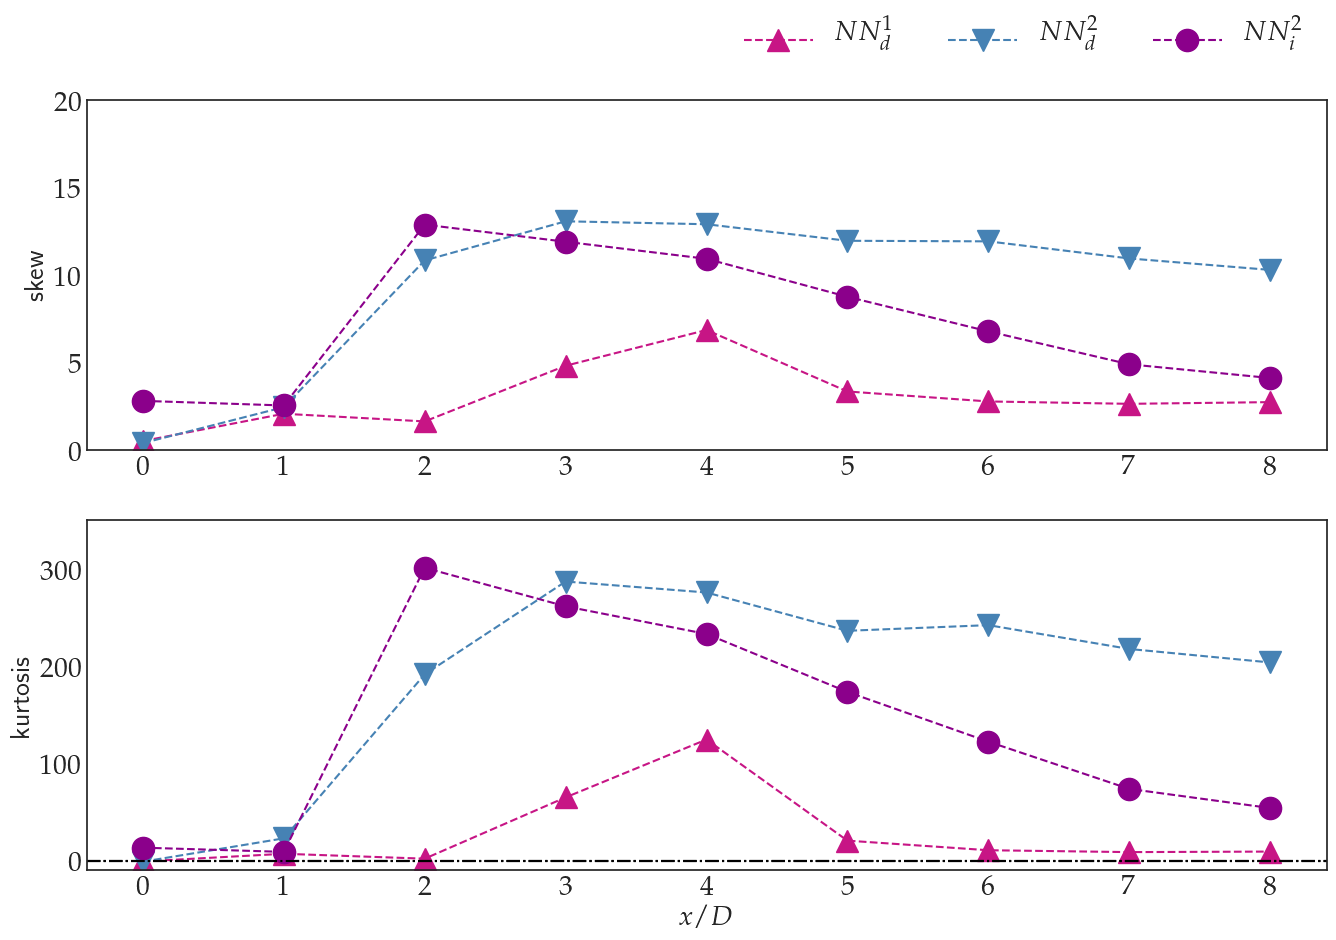
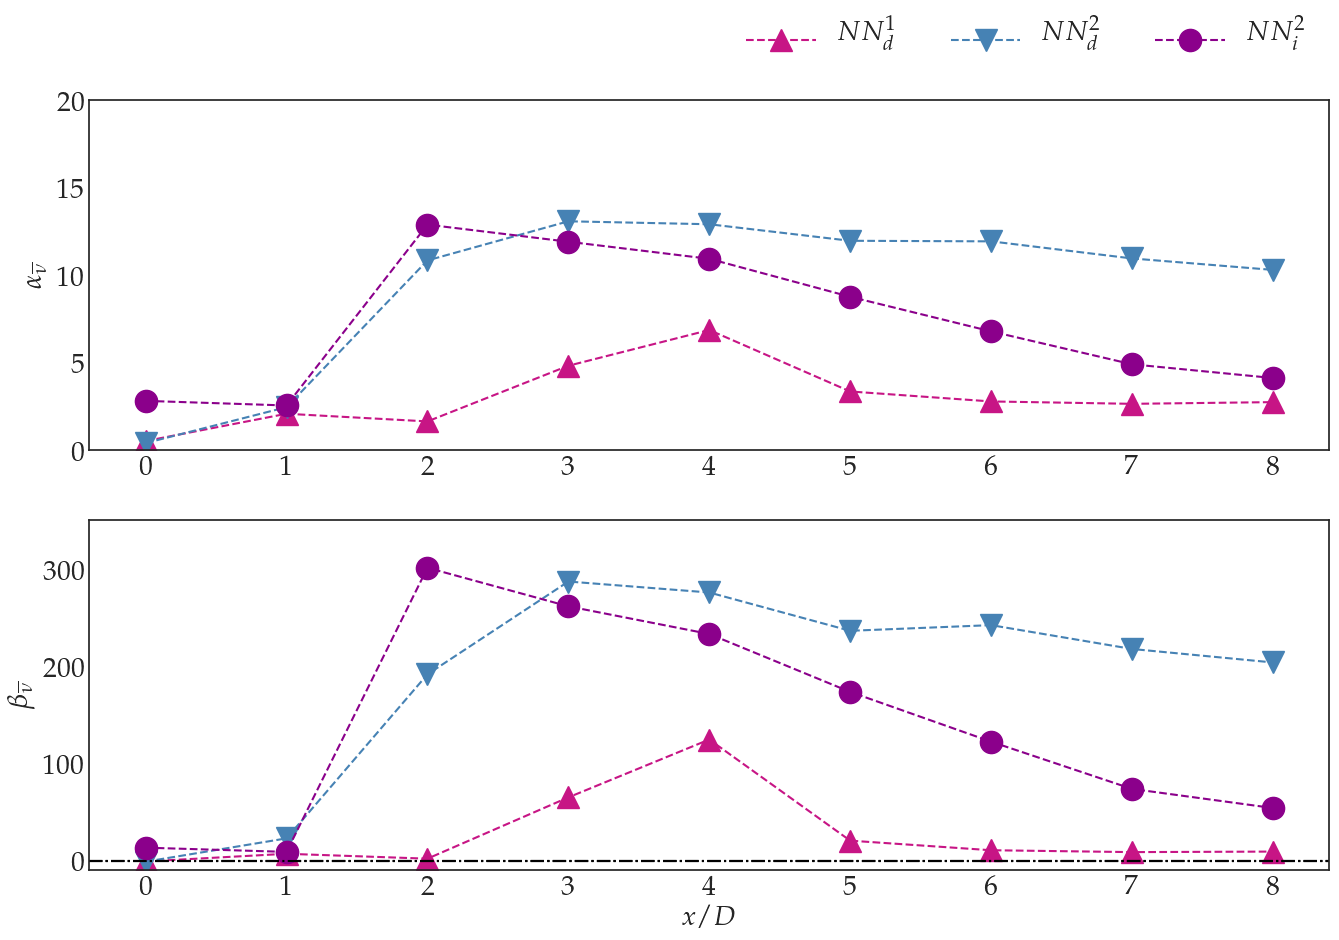
fix label ; font seems not to work, global variable seems to be unmutable after 1st assignement

diff --git a/userHistogram/userHistogram.py b/userHistogram/userHistogram.py
@@ -288,12 +288,12 @@ def main():
         ax[0].plot(axis_x, higherOrderStat[case]['skew'],label='skew',marker=markerDict[case],markersize=16,linestyle='--',color=colorDict[case])
         #ax[0].legend()
         ax[0].set_ylim(0,20)
-        ax[0].set_ylabel("skew")
+        ax[0].set_ylabel(r"$\alpha_{\overline{\nu}}$")
         ax[1].plot(axis_x, higherOrderStat[case]['kurt'],label=aliasDict[case],marker=markerDict[case],markersize=16,linestyle='--',color=colorDict[case])
         ax[1].legend(bbox_to_anchor=(1, 2.5), ncol=3, shadow=True, fontsize=20, handlelength=2.5)
         ax[1].axhline(y=0., linestyle='-.', color='black')
         ax[1].set_ylim(-10,350)
-        ax[1].set_ylabel("kurtosis")
+        ax[1].set_ylabel(r"$\beta_{\overline{\nu}}$")
         ax[1].set_xlabel(r"$x/D$")
     fig.savefig("./"+"higherOrderStat.png",  bbox_inches='tight')
               
